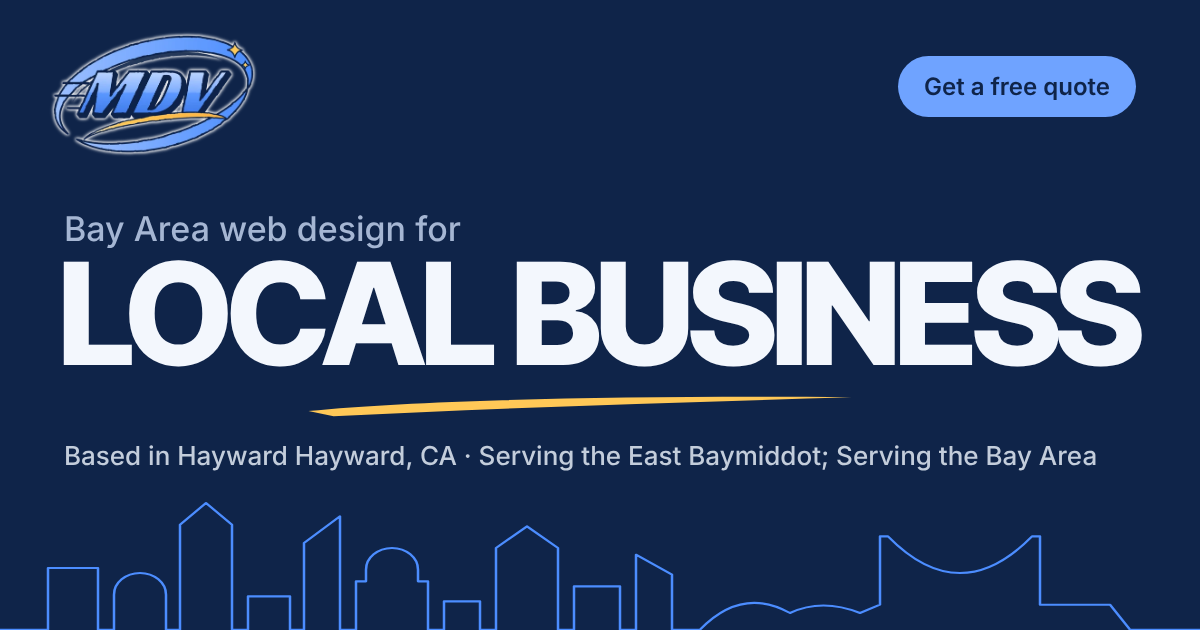
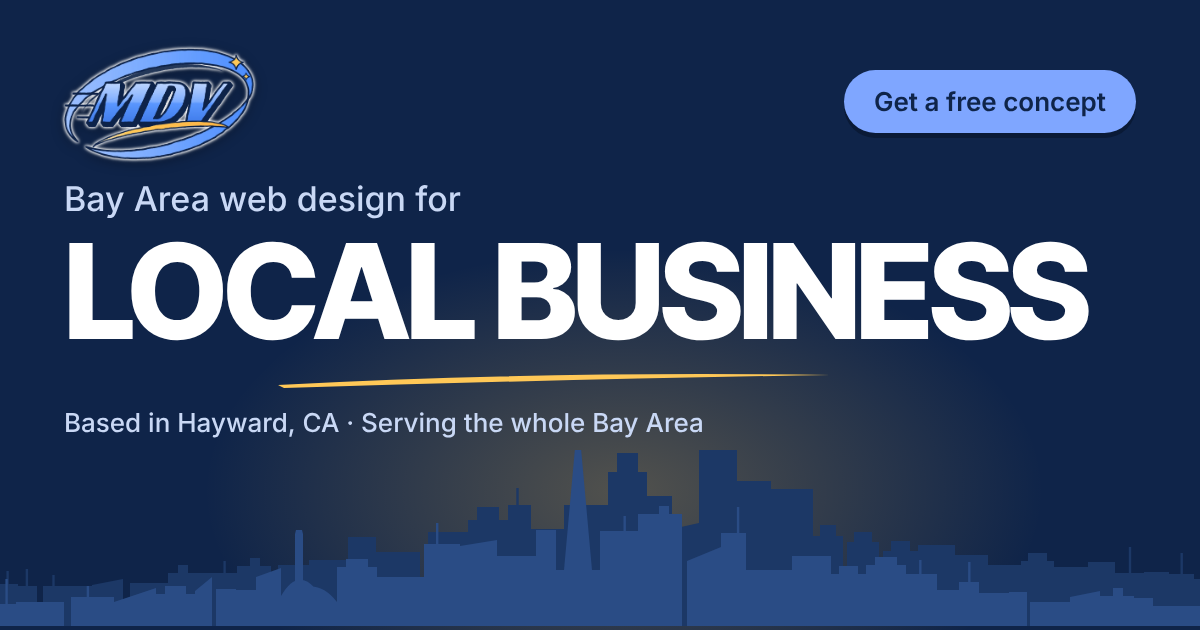
New link preview image with the footer skyline; fix its location line
Claude-Session: https://claude.ai/code/session_01Es5dF2LCyWhkTWoun2cdRj

diff --git a/index.html b/index.html
@@ -13,14 +13,14 @@
   <meta property="og:title" content="MDV Web Design | Bay Area Web Designer">
   <meta property="og:description" content="Modern, mobile-friendly websites for Bay Area businesses, based in Hayward. Free concept redesigns. Contact MDV Web Design for a quote.">
   <meta property="og:url" content="https://mdvwebdesign.com/">
-  <meta property="og:image" content="https://mdvwebdesign.com/assets/og.png">
+  <meta property="og:image" content="https://mdvwebdesign.com/assets/og.png?v=2">
   <meta property="og:image:width" content="1200">
   <meta property="og:image:height" content="630">
   <meta property="og:image:alt" content="MDV Web Design: websites for local businesses in the Bay Area">
   <meta name="twitter:card" content="summary_large_image">
   <meta name="twitter:title" content="MDV Web Design | Bay Area Web Designer">
   <meta name="twitter:description" content="Modern, mobile-friendly websites for Bay Area businesses, based in Hayward. Free concept redesigns. Contact MDV Web Design for a quote.">
-  <meta name="twitter:image" content="https://mdvwebdesign.com/assets/og.png">
+  <meta name="twitter:image" content="https://mdvwebdesign.com/assets/og.png?v=2">
   <link rel="icon" href="favicon-32.png" sizes="32x32" type="image/png">
   <link rel="apple-touch-icon" href="apple-touch-icon.png">
   <link rel="preconnect" href="https://fonts.googleapis.com">
@@ -30,7 +30,7 @@
   <noscript><link rel="stylesheet" href="https://fonts.googleapis.com/css2?family=Racing+Sans+One&family=Inter+Tight:wght@700;800&family=Inter:wght@400;500;600&family=Caveat:wght@700&family=Instrument+Serif:ital@1&display=swap"></noscript>
   <link rel="stylesheet" href="styles.css?v=cce19a1b">
   <script>document.documentElement.classList.add('js');</script>
-  <script type="application/ld+json">{"@context":"https://schema.org","@type":"ProfessionalService","name":"MDV Web Design","description":"Modern, mobile-friendly websites for Bay Area businesses, based in Hayward. Free concept redesigns.","url":"https://mdvwebdesign.com/","email":"markdv.webdesign@gmail.com","image":"https://mdvwebdesign.com/assets/og.png","logo":"https://mdvwebdesign.com/assets/logo-mark-512.png","founder":{"@type":"Person","name":"Mark"},"address":{"@type":"PostalAddress","addressLocality":"Hayward","addressRegion":"CA","addressCountry":"US"},"areaServed":[{"@type":"City","name":"Hayward"},{"@type":"City","name":"San Francisco"},{"@type":"City","name":"Oakland"},{"@type":"City","name":"San Leandro"},{"@type":"City","name":"San Lorenzo"},{"@type":"City","name":"Castro Valley"},{"@type":"City","name":"Union City"},{"@type":"City","name":"Fremont"},{"@type":"City","name":"Newark"},{"@type":"City","name":"Dublin"},{"@type":"City","name":"Pleasanton"},{"@type":"City","name":"Livermore"},{"@type":"City","name":"Milpitas"},{"@type":"City","name":"San Jose"},{"@type":"City","name":"Santa Clara"},{"@type":"City","name":"Sunnyvale"}],"knowsAbout":["Web design","Website redesign","Local SEO","Mobile-friendly websites"]}</script>
+  <script type="application/ld+json">{"@context":"https://schema.org","@type":"ProfessionalService","name":"MDV Web Design","description":"Modern, mobile-friendly websites for Bay Area businesses, based in Hayward. Free concept redesigns.","url":"https://mdvwebdesign.com/","email":"markdv.webdesign@gmail.com","image":"https://mdvwebdesign.com/assets/og.png?v=2","logo":"https://mdvwebdesign.com/assets/logo-mark-512.png","founder":{"@type":"Person","name":"Mark"},"address":{"@type":"PostalAddress","addressLocality":"Hayward","addressRegion":"CA","addressCountry":"US"},"areaServed":[{"@type":"City","name":"Hayward"},{"@type":"City","name":"San Francisco"},{"@type":"City","name":"Oakland"},{"@type":"City","name":"San Leandro"},{"@type":"City","name":"San Lorenzo"},{"@type":"City","name":"Castro Valley"},{"@type":"City","name":"Union City"},{"@type":"City","name":"Fremont"},{"@type":"City","name":"Newark"},{"@type":"City","name":"Dublin"},{"@type":"City","name":"Pleasanton"},{"@type":"City","name":"Livermore"},{"@type":"City","name":"Milpitas"},{"@type":"City","name":"San Jose"},{"@type":"City","name":"Santa Clara"},{"@type":"City","name":"Sunnyvale"}],"knowsAbout":["Web design","Website redesign","Local SEO","Mobile-friendly websites"]}</script>
   <script type="application/ld+json">{"@context":"https://schema.org","@type":"FAQPage","mainEntity":[{"@type":"Question","name":"How much does a website cost?","acceptedAnswer":{"@type":"Answer","text":"Every business needs something a little different, so every project gets its own quote based on the pages and features you need. The concept is always free, so you see exactly what you would be getting before you spend anything."}},{"@type":"Question","name":"Is the free concept really free?","acceptedAnswer":{"@type":"Answer","text":"Yes. I design a new homepage for your business and send it to you. If you don\u2019t love it, you owe nothing and there are no hard feelings."}},{"@type":"Question","name":"How long does it take?","acceptedAnswer":{"@type":"Answer","text":"Most small business sites take about 2 to 4 weeks from the day you say yes to launch day. Having your photos and info ready speeds things up."}},{"@type":"Question","name":"I already have a website. Can you redesign it?","acceptedAnswer":{"@type":"Answer","text":"Absolutely. Most of my work is giving older sites a fresh look that works on phones. I can keep your domain, so customers still find you at the same address."}},{"@type":"Question","name":"Do I need to write the text or take photos?","acceptedAnswer":{"@type":"Answer","text":"No. I can write the words for you based on a quick chat, and use your own photos if you have them. Real photos of your work and your team always help the most."}},{"@type":"Question","name":"Will I own my website?","acceptedAnswer":{"@type":"Answer","text":"Yes. Once it\u2019s paid for, the site and the domain are yours. I\u2019m happy to stick around for updates, but you\u2019re never locked in."}},{"@type":"Question","name":"Are there any ongoing costs?","acceptedAnswer":{"@type":"Answer","text":"If you skip my monthly care plan, you pay the companies that keep your site online directly. Your domain name, like yourbusiness.com, renews every year and usually costs about $10 to $25 a year, depending on the name and the company. Some companies let you pay monthly instead. Hosting for a small site like this is often free, or a few dollars a month. None of that money goes to me. If you\u2019d rather not deal with it, my optional care plan covers hosting, monthly checkups and small updates for one monthly fee, and your domain always stays in your name."}},{"@type":"Question","name":"Can you help people find me on Google?","acceptedAnswer":{"@type":"Answer","text":"Every site I build is set up for Google from day one, with your services, hours and service area clearly listed. I can also help you set up or clean up your Google Business Profile."}}]}</script>
 </head>
 <body>

diff --git a/_source/og.html b/_source/og.html
@@ -1,0 +1,31 @@
+<!doctype html><html><head><meta charset="utf-8">
+<!-- Link preview card. Re-render to assets/og.png at 1200x630 (see README) -->
+<link href="https://fonts.googleapis.com/css2?family=Inter+Tight:wght@800&family=Inter:wght@500;600&display=swap" rel="stylesheet">
+<style>
+*{margin:0;box-sizing:border-box}
+body{width:1200px;height:630px;overflow:hidden;background:#0F2449;font-family:Inter,sans-serif;color:#fff;position:relative}
+.glow{position:absolute;inset:0;background:radial-gradient(50% 55% at 52% 78%,rgba(255,200,87,.28),rgba(255,200,87,0) 70%)}
+.logo{position:absolute;left:64px;top:48px;width:190px;aspect-ratio:149/88;filter:drop-shadow(0 0 1.5px #fff) drop-shadow(0 0 1.5px #fff) drop-shadow(0 3px 6px rgba(0,0,0,.3))}
+.logo img{position:absolute;inset:0;width:100%;height:100%}
+.cta{position:absolute;right:64px;top:70px;background:#7FA6FF;color:#0F2449;font-weight:600;font-size:26px;padding:16px 30px;border-radius:999px;box-shadow:0 5px 0 #0A1A36}
+.copy{position:absolute;left:64px;right:64px;top:178px}
+.eyebrow{font-size:34px;font-weight:500;color:#C9D8F5}
+h1{font-family:"Inter Tight",sans-serif;font-weight:800;font-size:132px;line-height:1;letter-spacing:-.035em;margin-top:6px}
+.swoosh{display:block;width:560px;height:18px;margin:14px 0 0 210px}
+.sub{font-size:26px;font-weight:500;color:#C9D8F5;margin-top:18px}
+.sky{position:absolute;left:0;right:0;bottom:0;height:180px}
+.sky svg{width:100%;height:100%;display:block}
+.sky .sky-back{fill:#1C3866} .sky .sky-front{fill:#2A4C85}
+.ground{position:absolute;left:0;right:0;bottom:0;height:6px;background:#2A4C85}
+</style></head><body>
+<div class="glow"></div>
+<div class="logo"><img src="../assets/logo-back-528.webp"><img src="../assets/logo-mdv-528.webp"><img src="../assets/logo-front-528.webp"><img src="../assets/logo-star1-528.webp"><img src="../assets/logo-star2-528.webp"></div>
+<div class="cta">Get a free concept</div>
+<div class="copy">
+<p class="eyebrow">Bay Area web design for</p>
+<h1>LOCAL BUSINESS</h1>
+<svg class="swoosh" viewBox="0 0 560 18" preserveAspectRatio="none"><path d="M4 14 Q260 0 556 4 Q300 8 10 17 Z" fill="#FFC857"/></svg>
+<p class="sub">Based in Hayward, CA &middot; Serving the whole Bay Area</p>
+</div>
+<div class="sky"><svg viewBox="0 0 1200 240" preserveAspectRatio="xMidYMax slice" focusable="false" aria-hidden="true"><path class="sky-back" d="M-10 236 L-10 194 L6.4 194 L6.4 181 L8.8 181 L8.8 194 L18 194 L18 196 L25.7 196 L25.7 179 L28.1 179 L28.1 196 L37 196 L37 236 L43 236 L43 196 L52.3 196 L52.3 185 L54.7 185 L54.7 196 L62 196 L62 196 L92 196 L92 195 L123 189 L123 195 L123 236 L130 236 L130 193 L168 193 L168 183 L178 183 L178 175 L188 175 L188 183 L205 183 L205 183 L223.4 183 L223.4 171 L225.8 171 L225.8 183 L237 183 L237 176 L250 176 L250 168 L260 168 L260 176 L271 176 L271 236 L278 236 L278 175 L309 175 L309 170 L348 170 L348 147 L376 147 L376 162 L420 162 L420 236 L428 236 L428 142 L468 142 L468 130 L477 130 L477 117 L499 117 L499 130 L508 130 L508 115 L516.3 115 L516.3 98 L518.7 98 L518.7 115 L531 115 L531 139 L564 139 L564 115 L608 115 L608 82 L617 82 L617 63 L638 63 L638 82 L647 82 L647 106 L672 106 L672 139 L699 133 L699 139 L699 36 Q718 0 737 36 L737 146 L737 91 L771 91 L771 99 L813 99 L813 146 L820 146 L820 135 L836 135 L836 146 L843 146 L843 236 L847 236 L847 152 L854 152 L854 142 L872 142 L872 152 L879 152 L879 236 L883 236 L883 161 L891 161 L891 151 L910 151 L910 161 L918 161 L918 155 L955 155 L955 165 L988 165 L988 175 L1021 175 L1021 171 L1028 171 L1028 163 L1047 163 L1047 171 L1054 171 L1054 177 L1088 177 L1088 172 L1115 172 L1115 183 L1128.8 183 L1128.8 157 L1131.2 157 L1131.2 183 L1144 183 L1144 182 L1169 182 L1169 184 L1180.5 184 L1180.5 163 L1182.9 163 L1182.9 184 L1194 184 L1194 189 L1202.6 189 L1202.6 168 L1205.0 168 L1205.0 189 L1212 189 L1210 236 Z"/><path class="sky-front" d="M-10 236 L-10 214 L5.4 214 L5.4 189 L7.8 189 L7.8 214 L16 214 L16 212 L64 212 L64 236 L71 236 L71 207 L86.7 207 L86.7 196 L89.1 196 L89.1 207 L114 207 L114 212 L156 198 L156 205 L156 204 L165 204 L165 196 L186 196 L186 204 L195 204 L195 201 L212 187 L212 193 L212 236 L216 236 L216 199 L236 199 L236 200 L256 200 L256 187 L281 178 L281 175 L281 206 Q297 178 315 198 L295 198 L295 144 L296 140 L302 140 L303 144 L303 198 Q321 192 337 212 L337 177 L346 177 L346 169 L368 169 L368 177 L377 177 L377 187 L424 187 L424 154 L436.0 154 L436.0 133 L438.4 133 L438.4 154 L460 154 L460 156 L497 150 L497 149 L497 166 L536 166 L536 140 L556 140 L556 180 L564 180 L577 36 L577.5 10 L578.5 10 L579 36 L592 180 L600 180 L600 141 L623.5 141 L623.5 126 L625.9 126 L625.9 141 L638 141 L638 124 L659 124 L659 116 L669 116 L669 124 L682 124 L682 236 L687 236 L687 171 L721 157 L721 171 L721 143 L736.9 143 L736.9 117 L739.3 117 L739.3 143 L746 143 L746 180 L792 180 L792 166 L831 166 L831 184 L839 184 L839 176 L858 176 L858 184 L866 184 L866 175 L875 175 L875 167 L897 167 L897 175 L906 175 L906 184 L919.1 184 L919.1 170 L921.5 170 L921.5 184 L937 184 L937 200 L959 200 L959 192 L968.1 192 L968.1 172 L970.5 172 L970.5 192 L979 192 L979 203 L1009 203 L1009 202 L1027 202 L1027 236 L1030 236 L1030 212 L1070 212 L1070 207 L1100 201 L1100 195 L1100 206 L1113 206 L1113 198 L1123 198 L1123 206 L1134 206 L1134 208 L1153 208 L1153 216 L1202 216 L1202 215 L1230 215 L1230 236 L1233 236 L1210 236 Z"/></svg></div>
+</body></html>

diff --git a/thanks.html b/thanks.html
@@ -13,14 +13,14 @@
   <meta property="og:title" content="Thanks | MDV Web Design">
   <meta property="og:description" content="Thanks for reaching out to MDV Web Design.">
   <meta property="og:url" content="https://mdvwebdesign.com/thanks.html">
-  <meta property="og:image" content="https://mdvwebdesign.com/assets/og.png">
+  <meta property="og:image" content="https://mdvwebdesign.com/assets/og.png?v=2">
   <meta property="og:image:width" content="1200">
   <meta property="og:image:height" content="630">
   <meta property="og:image:alt" content="MDV Web Design: websites for local businesses in the Bay Area">
   <meta name="twitter:card" content="summary_large_image">
   <meta name="twitter:title" content="Thanks | MDV Web Design">
   <meta name="twitter:description" content="Thanks for reaching out to MDV Web Design.">
-  <meta name="twitter:image" content="https://mdvwebdesign.com/assets/og.png">
+  <meta name="twitter:image" content="https://mdvwebdesign.com/assets/og.png?v=2">
   <link rel="icon" href="/favicon-32.png" sizes="32x32" type="image/png">
   <link rel="apple-touch-icon" href="/apple-touch-icon.png">
   <link rel="preconnect" href="https://fonts.googleapis.com">

diff --git a/404.html b/404.html
@@ -13,14 +13,14 @@
   <meta property="og:title" content="Page not found | MDV Web Design">
   <meta property="og:description" content="This page could not be found.">
   <meta property="og:url" content="https://mdvwebdesign.com/404.html">
-  <meta property="og:image" content="https://mdvwebdesign.com/assets/og.png">
+  <meta property="og:image" content="https://mdvwebdesign.com/assets/og.png?v=2">
   <meta property="og:image:width" content="1200">
   <meta property="og:image:height" content="630">
   <meta property="og:image:alt" content="MDV Web Design: websites for local businesses in the Bay Area">
   <meta name="twitter:card" content="summary_large_image">
   <meta name="twitter:title" content="Page not found | MDV Web Design">
   <meta name="twitter:description" content="This page could not be found.">
-  <meta name="twitter:image" content="https://mdvwebdesign.com/assets/og.png">
+  <meta name="twitter:image" content="https://mdvwebdesign.com/assets/og.png?v=2">
   <link rel="icon" href="/favicon-32.png" sizes="32x32" type="image/png">
   <link rel="apple-touch-icon" href="/apple-touch-icon.png">
   <link rel="preconnect" href="https://fonts.googleapis.com">

diff --git a/_source/partials.py b/_source/partials.py
@@ -68,14 +68,14 @@ def head(root, title, desc, path, extra_fonts='', preload=''):
   <meta property="og:title" content="{title}">
   <meta property="og:description" content="{desc}">
   <meta property="og:url" content="{url}">
-  <meta property="og:image" content="https://mdvwebdesign.com/assets/og.png">
+  <meta property="og:image" content="https://mdvwebdesign.com/assets/og.png?v=2">
   <meta property="og:image:width" content="1200">
   <meta property="og:image:height" content="630">
   <meta property="og:image:alt" content="MDV Web Design: websites for local businesses in the Bay Area">
   <meta name="twitter:card" content="summary_large_image">
   <meta name="twitter:title" content="{title}">
   <meta name="twitter:description" content="{desc}">
-  <meta name="twitter:image" content="https://mdvwebdesign.com/assets/og.png">
+  <meta name="twitter:image" content="https://mdvwebdesign.com/assets/og.png?v=2">
   <link rel="icon" href="{root}favicon-32.png" sizes="32x32" type="image/png">
   <link rel="apple-touch-icon" href="{root}apple-touch-icon.png">
   <link rel="preconnect" href="https://fonts.googleapis.com">

diff --git a/_source/build.py b/_source/build.py
@@ -38,7 +38,7 @@ SCHEMA = {
     "description": "Modern, mobile-friendly websites for Bay Area businesses, based in Hayward. Free concept redesigns.",
     "url": "https://mdvwebdesign.com/",
     "email": "markdv.webdesign@gmail.com",
-    "image": "https://mdvwebdesign.com/assets/og.png",
+    "image": "https://mdvwebdesign.com/assets/og.png?v=2",
     "logo": "https://mdvwebdesign.com/assets/logo-mark-512.png",
     "founder": {"@type": "Person", "name": "Mark"},
     "address": {"@type": "PostalAddress", "addressLocality": "Hayward", "addressRegion": "CA", "addressCountry": "US"},
